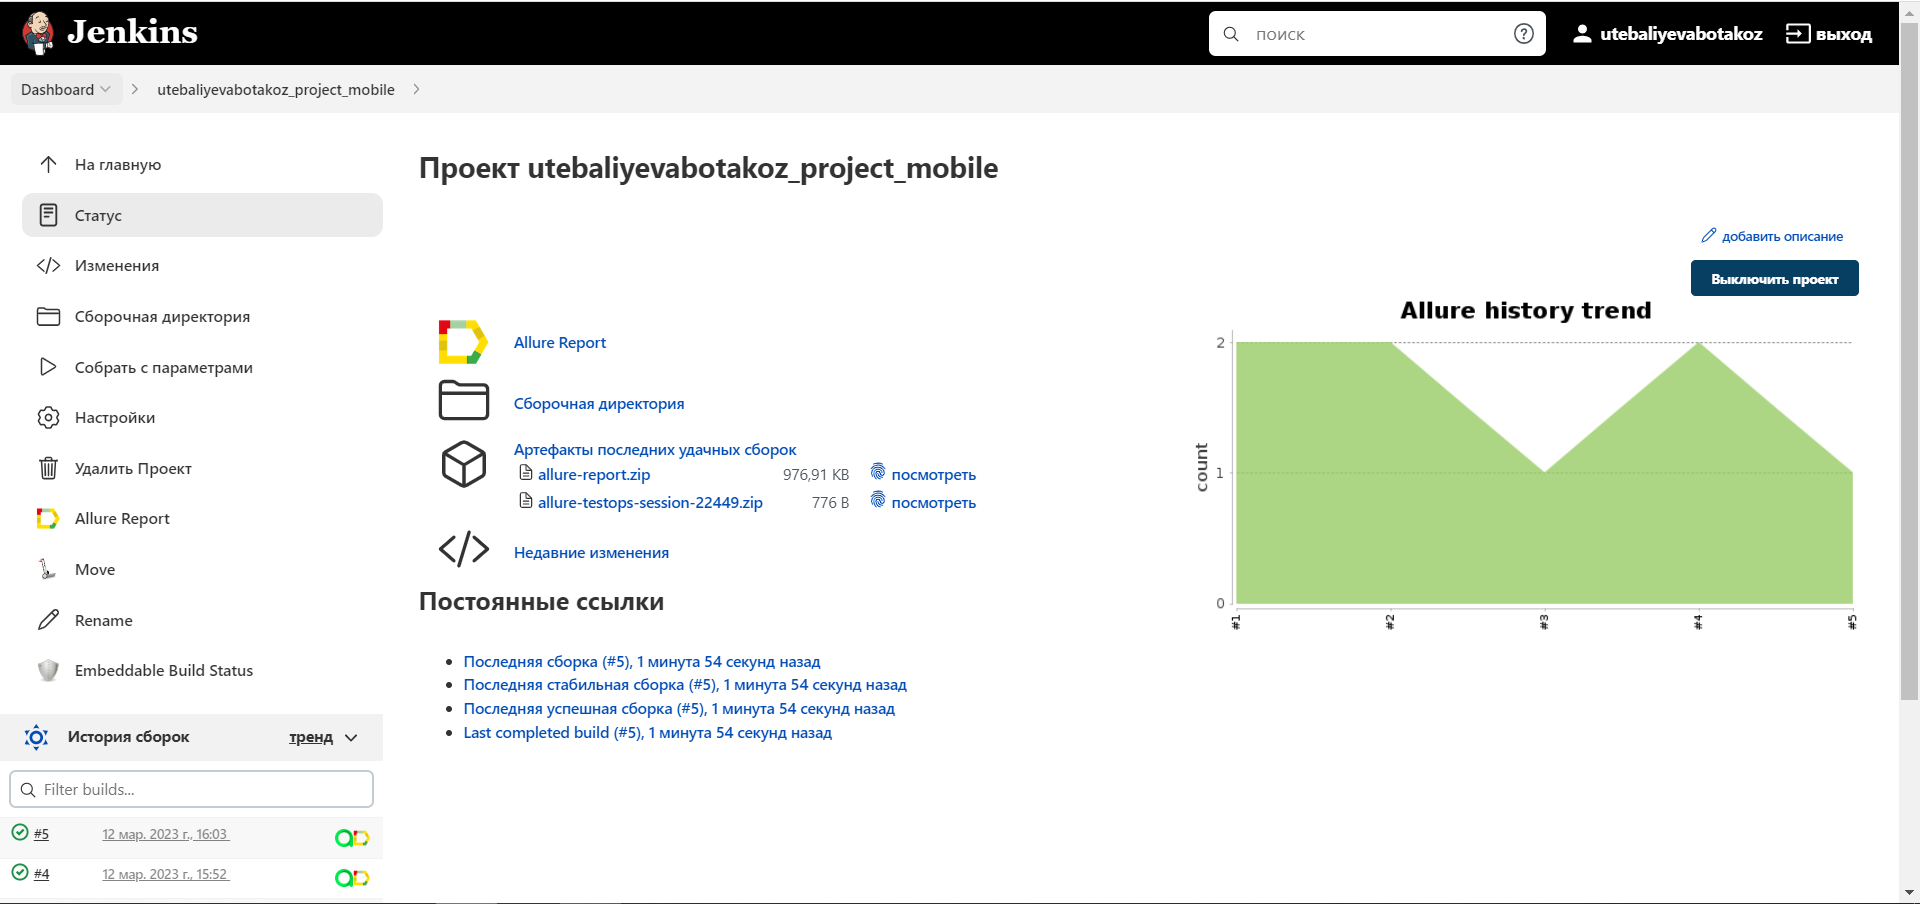
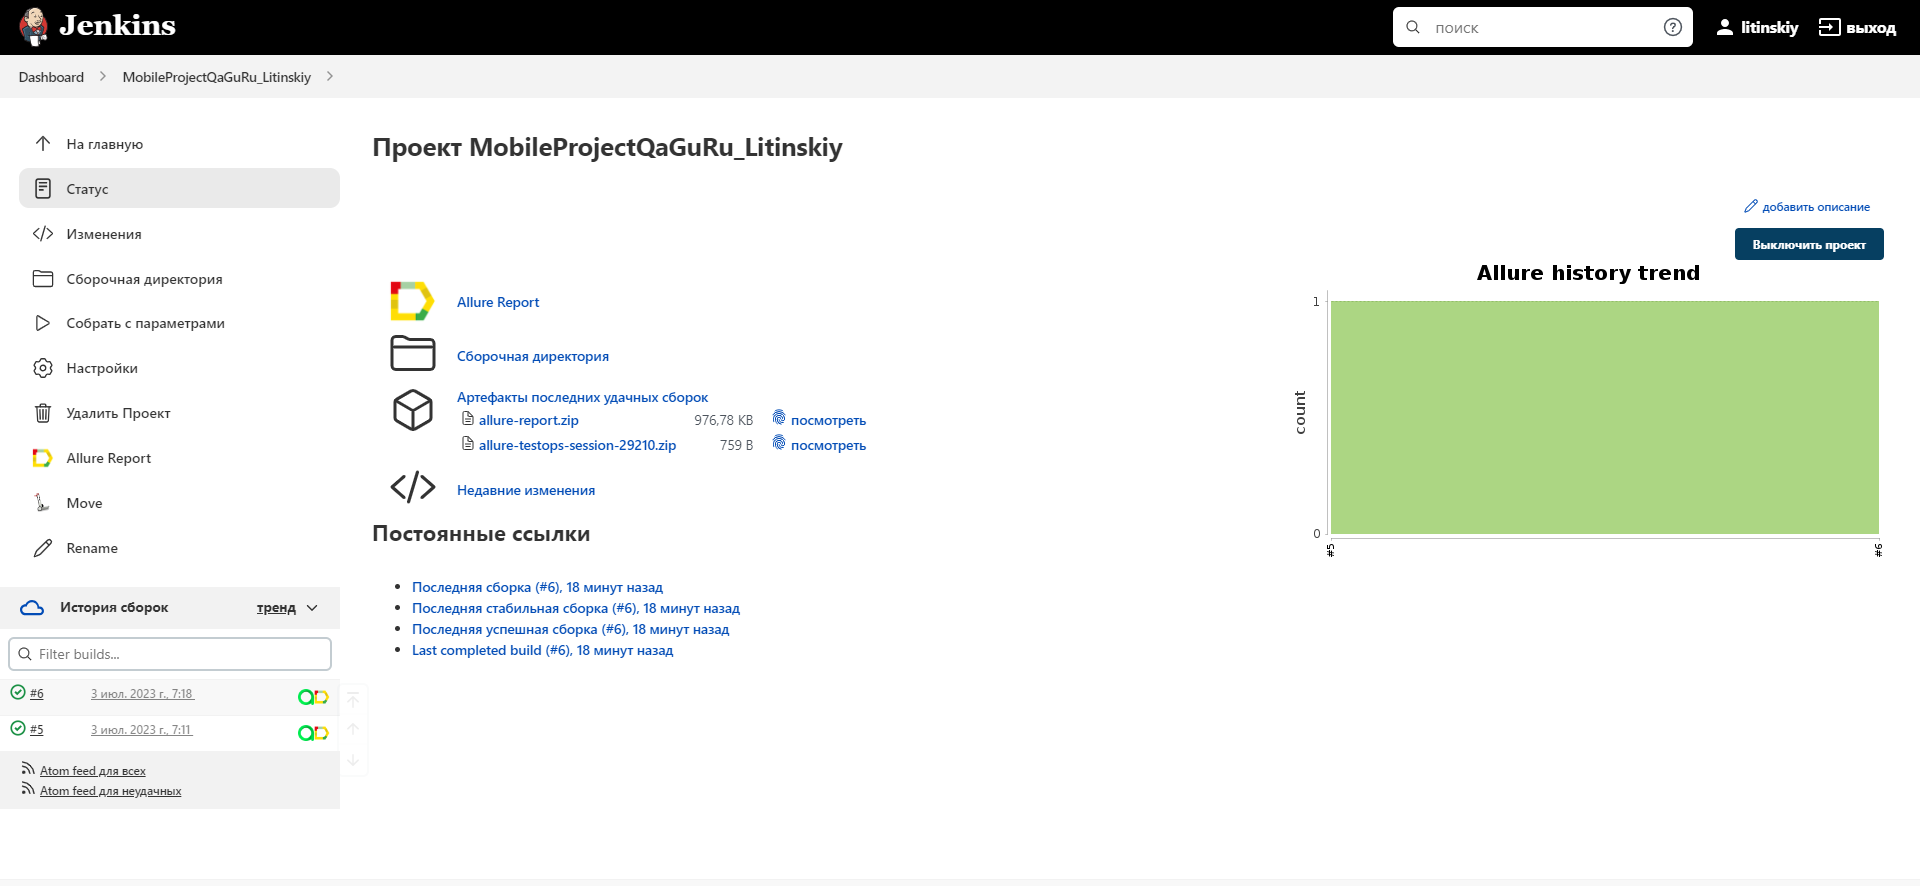
Add telegram the right settings 2 and images

diff --git a/README.md b/README.md
@@ -82,32 +82,31 @@ Additional properties (such as device, OS version, path to BrowserStack server, 
 
 [Back to Contents ⬆](#Contents)
 
-## <a name="Run in Jenkins">Run in [Jenkins](https://jenkins.autotests.cloud/job/utebaliyevabotakoz_project_mobile/)</a>
+## <a name="Run in Jenkins">Run in [Jenkins](https://jenkins.autotests.cloud/job/MobileProjectQaGuRu_Litinskiy/)</a>
 
-Сборка с параметрами в Jenkins запускается с необходимым ***deviceHost***:
+The build with parameters in Jenkins is started with the necessary ***deviceHost***:
 
-<p  align="center"> <img src="images/screens/JenkinsMain.png" width="950"> </p>
+<p  align="center"> <img src="images/screens/JenkinsMain.PNG" width="950"> </p>
 
 
-
-Главная страница проекта:
+Home page of the project:
 <p  align="center">
 <img src="images/screens/JenkinsHistory.PNG" width="950">
 </p>
 
 
-Результат сборки проекта доступен в:
+The project build result is available in:
 >- <code><strong>*Allure Report*</strong></code>
 >- <code><strong>*Telegram bot*</strong></code>
 >- <code><strong>*Allure TestOps*</strong></code>
 
 
-[Вернуться к оглавлению ⬆](#Содержание)
+[Back to Contents ⬆](#Contents)
 
 
-## <a name="Telegram">[Уведомление в Telegram о результатах прогона тестов](https://t.me/Qa_botakoz_bot)</a>
+## <a name="Telegram">[Telegram notification about test run results](https://t.me/HWLitinskiy)</a>
 
-Telegram-бот Autotests bot отправляет графический отчет каждой сборки.
+The Telegram bot Autotests bot sends a graphical report of each build.
 <p  align="center"> <img src="images/screens/Telegram1.PNG" width="650"></p>
 
 
